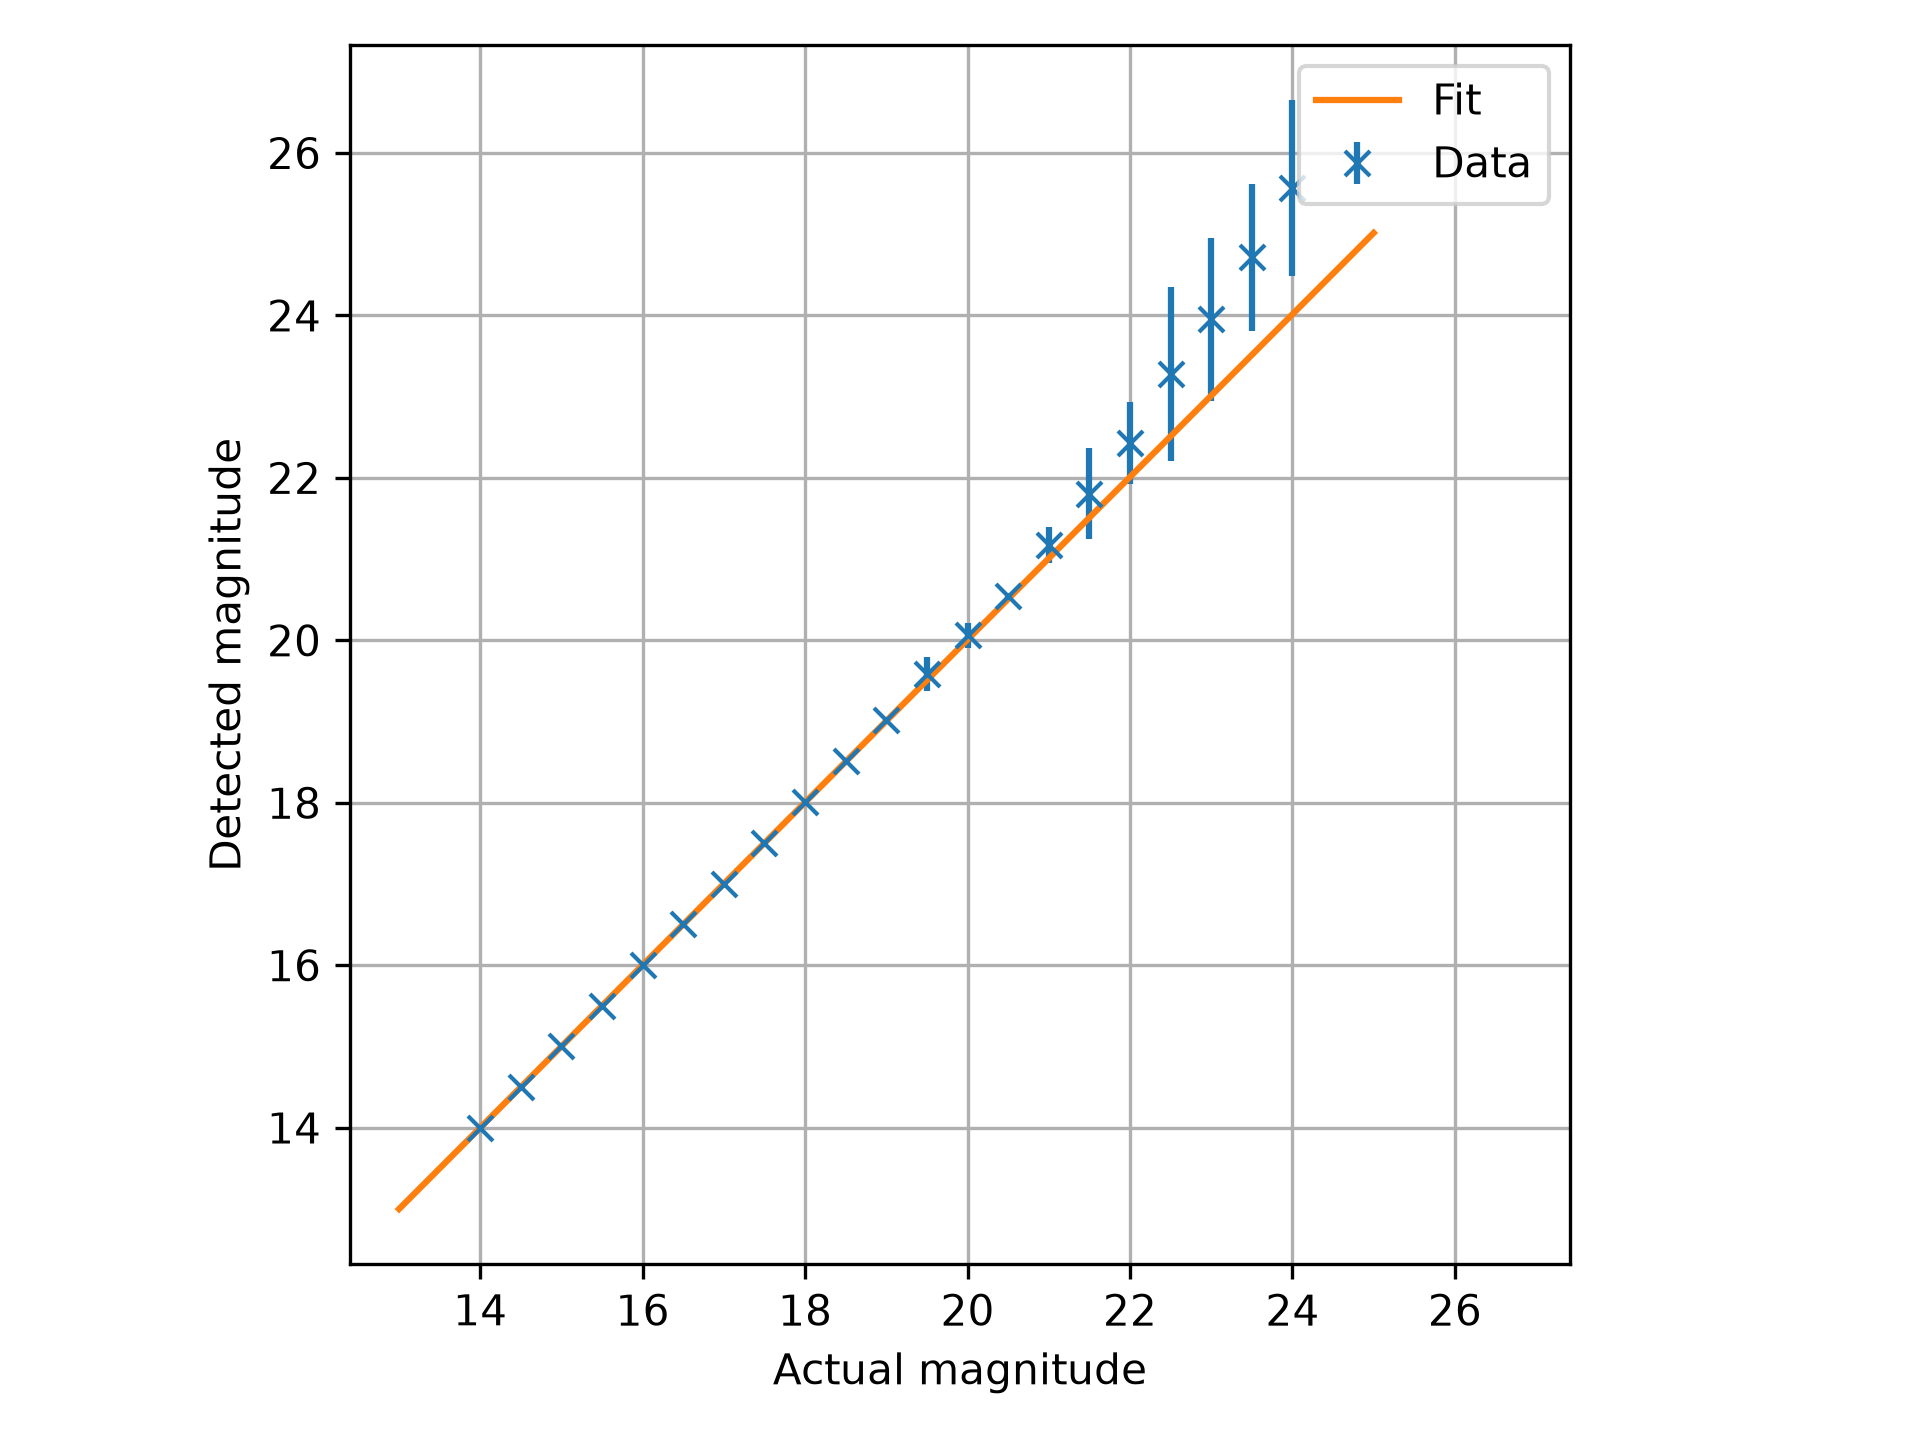
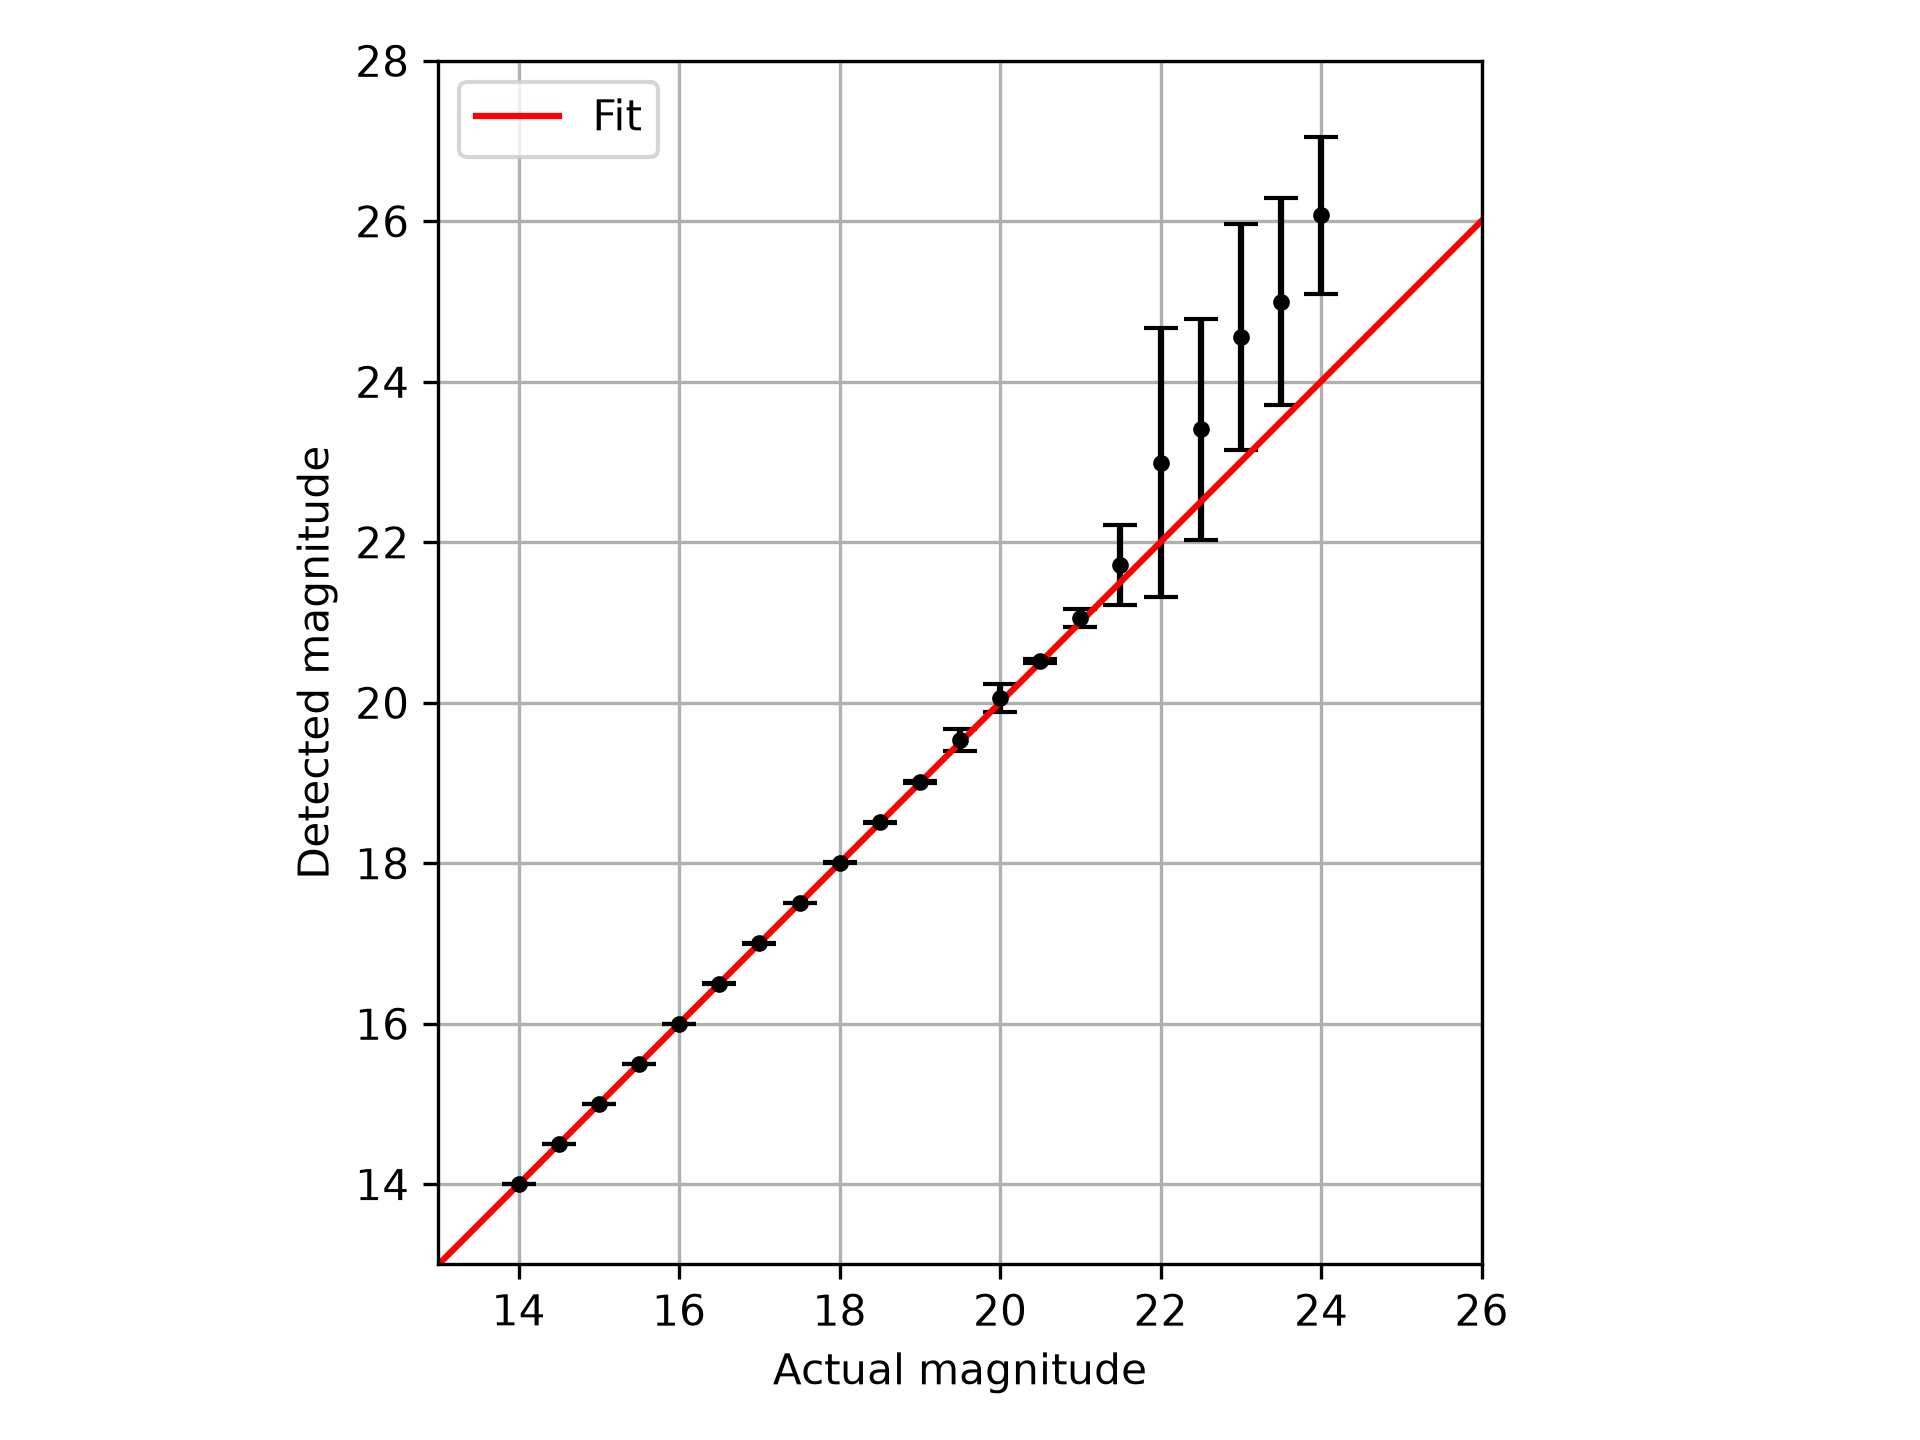
figures update

diff --git a/classify.py b/classify.py
@@ -84,7 +84,8 @@ counts_err = np.sqrt(counts) / normalisation
 counts = counts / normalisation
 bins = (bins[1:] + bins[:-1]) / 2
 
-plt.errorbar(bins, counts, xerr=magnitudes_err_binned, yerr=counts_err, fmt='.', capsize=4, label='Data')
+plt.axvspan(16, 20, color="lightblue", alpha=0.3, label='Valid mag')
+plt.errorbar(bins, counts, xerr=magnitudes_err_binned, yerr=counts_err, fmt='.', capsize=4, color='black', label='Data')
 plt.semilogy()
 plt.xlabel("Apparent magnitude")
 plt.ylabel("N (per deg\u00b2 per 0.5 mag)")
@@ -102,11 +103,28 @@ popt, pcov = optimize.curve_fit(
     log_line, xdata=bins[4:12], ydata=counts[4:12], sigma=counts_err[4:12]
 )
 
-plt.errorbar(bins, counts, yerr=counts_err, fmt='.', capsize=4, label='Data')
-plt.plot(bins[4:12], log_line(bins[4:12], *popt), label='Fit')
+# def line(x, m, c):
+#     return x*m + c
+
+# popt, pcov = optimize.curve_fit(
+#     line, xdata=bins[4:12], ydata=np.log10(counts[4:12])
+# )
+
+plt.axvspan(16, 20, color="lightblue", alpha=0.3, label='Valid mag')
+plt.errorbar(bins, counts, yerr=counts_err, fmt='.', capsize=4, color='black', label='Data')
+plt.plot(np.array([16, 20]), log_line(np.array([16, 20]), *popt), color='red', label='Fit ± σ')
+plt.plot(np.array([14, 22]), log_line(np.array([14, 22]), *popt), '--', color="red")
+plt.fill_between(
+    np.array([14, 22]),
+    log_line(np.array([14, 22]), popt[0]+np.sqrt(pcov[0][0]), popt[1]-np.sqrt(pcov[1][1])),
+    log_line(np.array([14, 22]), popt[0]-np.sqrt(pcov[0][0]), popt[1]+np.sqrt(pcov[1][1])),
+    color="orange", alpha=0.4
+)
 plt.semilogy()
 plt.xlabel("Apparent magnitude")
 plt.ylabel("Cumulative N (per deg\u00b2)")
+plt.xlim(14, 24)
+plt.ylim(top=2e4)
 plt.legend()
 # plt.savefig('figures/normalised_cumulative_count_plot', dpi=300)
 plt.show()
@@ -116,3 +134,4 @@ uncertainty_01 = (uncertainty_01 < 0.1).sum() / len(uncertainty_01)
 
 print('STATISTCIS')
 print(f'Slope = {popt[0]:.4f} +/- {np.sqrt(pcov[0][0]):.4f}')
+print(f'y-intercept = {popt[1]:.4f} +/- {np.sqrt(pcov[1][1]):.4f}')

diff --git a/simulate.py b/simulate.py
@@ -131,15 +131,17 @@ popt, pcov = optimize.curve_fit(
     line, xdata=magnitudes, ydata=mags, sigma=mags_err
 )
 
-plt.errorbar(magnitudes, mags, mags_err, fmt='x', label='Data')
-plt.plot(np.array([13, 25]), line(np.array([13, 25]), *popt), label='Fit')
+plt.errorbar(magnitudes, mags, mags_err, fmt='.', capsize=4, color='black')
+plt.plot(np.array([12, 28]), line(np.array([12, 28]), *popt), color='red', label='Fit')
 plt.xlabel('Actual magnitude')
 plt.ylabel('Detected magnitude')
 plt.grid()
 plt.axis('square')
+plt.xlim(13, 26)
+plt.ylim(13, 28)
 plt.legend()
 plt.tight_layout()
-# plt.savefig('figures/magnitude_simulation', dpi=300)
+plt.savefig('figures/magnitude_simulation', dpi=300)
 plt.show()
 
 print('STATISTICS')
